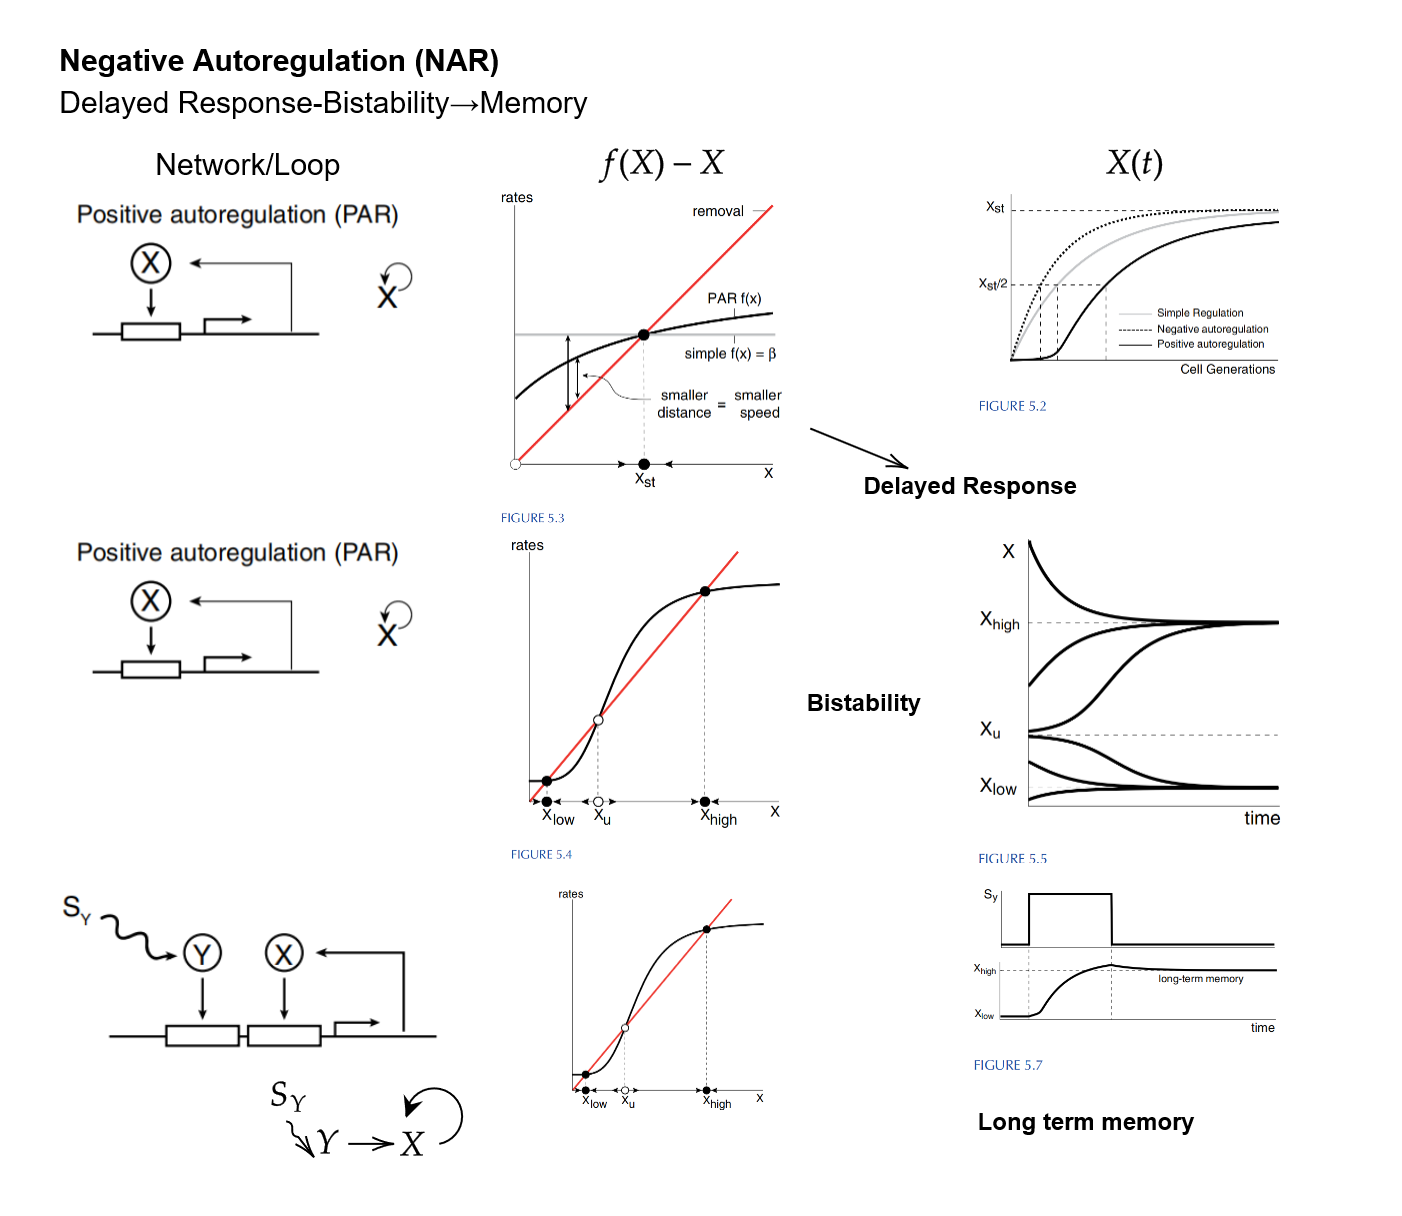
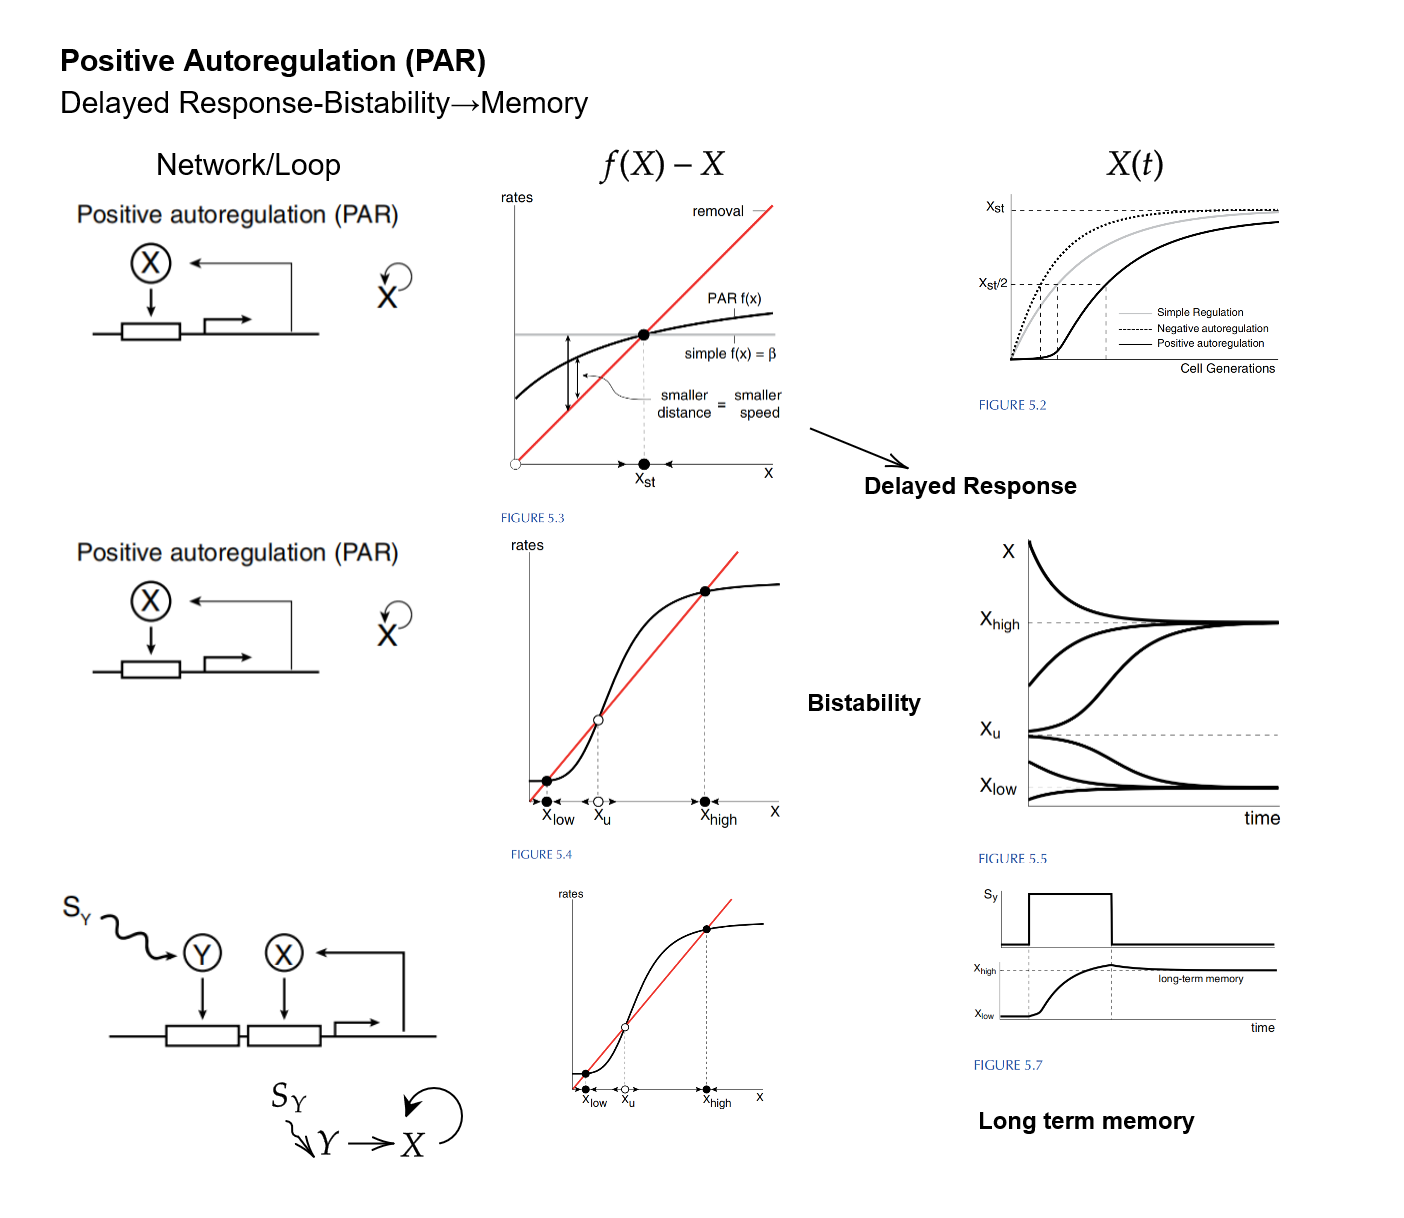
10pm update

diff --git a/734/g-course-memo/course/5/activity_name.html b/734/g-course-memo/course/5/activity_name.html
@@ -31,14 +31,12 @@
         <tbody>
             
             <tr>
-                <td>15</td>
-                <td>2024-10-22</td>
-                <td><a href="/734/g-course-memo/course/5/activity_id/6.html" target="_blank">Noteworthy Networks in DTN:<br>Negative Autoregulation<br>Two-Node Feedback Loops</a></td>              
+                <td>14</td>
+                <td>2024-10-17</td>
+                <td><a href="/734/g-course-memo/course/5/activity_id/17.html" target="_blank">Chpt.4 Topological Generalization of (Sensory etc.) Transcription Networks: <br>Single Input Module<br>Bifan and Diamond</a></td>              
                 <td>
                     
-                        <!-- <a href="None" target="_blank"> -->
-                            <a href="/734/g-course-memo/course/5/activity_id/6.html" target="_blank"><img src="/static/G-Course-Memo%20image/BME418/BME418_15_1.png" alt="None" class="academic-image"></a>
-                        <!-- </a> -->
+                        No image available
                     
                 </td>             
             </tr>
@@ -46,11 +44,24 @@
             <tr>
                 <td>16</td>
                 <td>2024-10-24</td>
-                <td><a href="/734/g-course-memo/course/5/activity_id/13.html" target="_blank">Noteworthy Networks in DTN:<br>Two-Node Feedback Loops and Deriving Networks<br>Other Networks<br>DTN project</a></td>              
+                <td><a href="/734/g-course-memo/course/5/activity_id/13.html" target="_blank">Chpt.5 Developemental Transcription Networks 2:<br>Two-Node Feedback Loops<br>Miscellaneous<br>DTN project</a></td>              
                 <td>
                     
                         <!-- <a href="None" target="_blank"> -->
                             <a href="/734/g-course-memo/course/5/activity_id/13.html" target="_blank"><img src="/static/G-Course-Memo%20image/BME418/BME418_16_1.png" alt="None" class="academic-image"></a>
+                        <!-- </a> -->
+                    
+                </td>             
+            </tr>
+            
+            <tr>
+                <td>15</td>
+                <td>2024-10-22</td>
+                <td><a href="/734/g-course-memo/course/5/activity_id/6.html" target="_blank">Chpt.5 Developmental Transcription Networks 1:<br>Positive Autoregulation<br>Two-Node Feedback Loops</a></td>              
+                <td>
+                    
+                        <!-- <a href="None" target="_blank"> -->
+                            <a href="/734/g-course-memo/course/5/activity_id/6.html" target="_blank"><img src="/static/G-Course-Memo%20image/BME418/BME418_15_1.png" alt="None" class="academic-image"></a>
                         <!-- </a> -->
                     
                 </td>             

diff --git a/734/g-course-memo/course/5/activity_id.html b/734/g-course-memo/course/5/activity_id.html
@@ -33,7 +33,7 @@
             <tr>
                 <td>15</td>
                 <td>2024-10-22</td>
-                <td><a href="/734/g-course-memo/course/5/activity_id/6.html" target="_blank">Noteworthy Networks in DTN:<br>Negative Autoregulation<br>Two-Node Feedback Loops</a></td>              
+                <td><a href="/734/g-course-memo/course/5/activity_id/6.html" target="_blank">Chpt.5 Developmental Transcription Networks 1:<br>Positive Autoregulation<br>Two-Node Feedback Loops</a></td>              
                 <td>
                     
                         <!-- <a href="None" target="_blank"> -->
@@ -46,12 +46,23 @@
             <tr>
                 <td>16</td>
                 <td>2024-10-24</td>
-                <td><a href="/734/g-course-memo/course/5/activity_id/13.html" target="_blank">Noteworthy Networks in DTN:<br>Two-Node Feedback Loops and Deriving Networks<br>Other Networks<br>DTN project</a></td>              
+                <td><a href="/734/g-course-memo/course/5/activity_id/13.html" target="_blank">Chpt.5 Developemental Transcription Networks 2:<br>Two-Node Feedback Loops<br>Miscellaneous<br>DTN project</a></td>              
                 <td>
                     
                         <!-- <a href="None" target="_blank"> -->
                             <a href="/734/g-course-memo/course/5/activity_id/13.html" target="_blank"><img src="/static/G-Course-Memo%20image/BME418/BME418_16_1.png" alt="None" class="academic-image"></a>
                         <!-- </a> -->
+                    
+                </td>             
+            </tr>
+            
+            <tr>
+                <td>14</td>
+                <td>2024-10-17</td>
+                <td><a href="/734/g-course-memo/course/5/activity_id/17.html" target="_blank">Chpt.4 Topological Generalization of (Sensory etc.) Transcription Networks: <br>Single Input Module<br>Bifan and Diamond</a></td>              
+                <td>
+                    
+                        No image available
                     
                 </td>             
             </tr>

diff --git a/734/g-course-memo/course/5/activity_date_desc.html b/734/g-course-memo/course/5/activity_date_desc.html
@@ -33,7 +33,7 @@
             <tr>
                 <td>16</td>
                 <td>2024-10-24</td>
-                <td><a href="/734/g-course-memo/course/5/activity_id/13.html" target="_blank">Noteworthy Networks in DTN:<br>Two-Node Feedback Loops and Deriving Networks<br>Other Networks<br>DTN project</a></td>              
+                <td><a href="/734/g-course-memo/course/5/activity_id/13.html" target="_blank">Chpt.5 Developemental Transcription Networks 2:<br>Two-Node Feedback Loops<br>Miscellaneous<br>DTN project</a></td>              
                 <td>
                     
                         <!-- <a href="None" target="_blank"> -->
@@ -46,12 +46,23 @@
             <tr>
                 <td>15</td>
                 <td>2024-10-22</td>
-                <td><a href="/734/g-course-memo/course/5/activity_id/6.html" target="_blank">Noteworthy Networks in DTN:<br>Negative Autoregulation<br>Two-Node Feedback Loops</a></td>              
+                <td><a href="/734/g-course-memo/course/5/activity_id/6.html" target="_blank">Chpt.5 Developmental Transcription Networks 1:<br>Positive Autoregulation<br>Two-Node Feedback Loops</a></td>              
                 <td>
                     
                         <!-- <a href="None" target="_blank"> -->
                             <a href="/734/g-course-memo/course/5/activity_id/6.html" target="_blank"><img src="/static/G-Course-Memo%20image/BME418/BME418_15_1.png" alt="None" class="academic-image"></a>
                         <!-- </a> -->
+                    
+                </td>             
+            </tr>
+            
+            <tr>
+                <td>14</td>
+                <td>2024-10-17</td>
+                <td><a href="/734/g-course-memo/course/5/activity_id/17.html" target="_blank">Chpt.4 Topological Generalization of (Sensory etc.) Transcription Networks: <br>Single Input Module<br>Bifan and Diamond</a></td>              
+                <td>
+                    
+                        No image available
                     
                 </td>             
             </tr>

diff --git a/734/g-course-memo/course/5/activity_date_asc.html b/734/g-course-memo/course/5/activity_date_asc.html
@@ -31,9 +31,20 @@
         <tbody>
             
             <tr>
+                <td>14</td>
+                <td>2024-10-17</td>
+                <td><a href="/734/g-course-memo/course/5/activity_id/17.html" target="_blank">Chpt.4 Topological Generalization of (Sensory etc.) Transcription Networks: <br>Single Input Module<br>Bifan and Diamond</a></td>              
+                <td>
+                    
+                        No image available
+                    
+                </td>             
+            </tr>
+            
+            <tr>
                 <td>15</td>
                 <td>2024-10-22</td>
-                <td><a href="/734/g-course-memo/course/5/activity_id/6.html" target="_blank">Noteworthy Networks in DTN:<br>Negative Autoregulation<br>Two-Node Feedback Loops</a></td>              
+                <td><a href="/734/g-course-memo/course/5/activity_id/6.html" target="_blank">Chpt.5 Developmental Transcription Networks 1:<br>Positive Autoregulation<br>Two-Node Feedback Loops</a></td>              
                 <td>
                     
                         <!-- <a href="None" target="_blank"> -->
@@ -46,7 +57,7 @@
             <tr>
                 <td>16</td>
                 <td>2024-10-24</td>
-                <td><a href="/734/g-course-memo/course/5/activity_id/13.html" target="_blank">Noteworthy Networks in DTN:<br>Two-Node Feedback Loops and Deriving Networks<br>Other Networks<br>DTN project</a></td>              
+                <td><a href="/734/g-course-memo/course/5/activity_id/13.html" target="_blank">Chpt.5 Developemental Transcription Networks 2:<br>Two-Node Feedback Loops<br>Miscellaneous<br>DTN project</a></td>              
                 <td>
                     
                         <!-- <a href="None" target="_blank"> -->

diff --git a/734/g-course-memo/course/5/activity_sequence.html b/734/g-course-memo/course/5/activity_sequence.html
@@ -31,9 +31,20 @@
         <tbody>
             
             <tr>
+                <td>14</td>
+                <td>2024-10-17</td>
+                <td><a href="/734/g-course-memo/course/5/activity_id/17.html" target="_blank">Chpt.4 Topological Generalization of (Sensory etc.) Transcription Networks: <br>Single Input Module<br>Bifan and Diamond</a></td>              
+                <td>
+                    
+                        No image available
+                    
+                </td>             
+            </tr>
+            
+            <tr>
                 <td>15</td>
                 <td>2024-10-22</td>
-                <td><a href="/734/g-course-memo/course/5/activity_id/6.html" target="_blank">Noteworthy Networks in DTN:<br>Negative Autoregulation<br>Two-Node Feedback Loops</a></td>              
+                <td><a href="/734/g-course-memo/course/5/activity_id/6.html" target="_blank">Chpt.5 Developmental Transcription Networks 1:<br>Positive Autoregulation<br>Two-Node Feedback Loops</a></td>              
                 <td>
                     
                         <!-- <a href="None" target="_blank"> -->
@@ -46,7 +57,7 @@
             <tr>
                 <td>16</td>
                 <td>2024-10-24</td>
-                <td><a href="/734/g-course-memo/course/5/activity_id/13.html" target="_blank">Noteworthy Networks in DTN:<br>Two-Node Feedback Loops and Deriving Networks<br>Other Networks<br>DTN project</a></td>              
+                <td><a href="/734/g-course-memo/course/5/activity_id/13.html" target="_blank">Chpt.5 Developemental Transcription Networks 2:<br>Two-Node Feedback Loops<br>Miscellaneous<br>DTN project</a></td>              
                 <td>
                     
                         <!-- <a href="None" target="_blank"> -->

diff --git a/734/g-course-memo/course/5/activity_id/17.html b/734/g-course-memo/course/5/activity_id/17.html
@@ -8,19 +8,18 @@
 </head>
 <body>
     <h1>G Course Memo: <span style="border-bottom: 1px dotted;" title="Quantitative Cell Biology">BME418</span></h1>
-    <h2>Chpt.5 Developemental Transcription Networks 2:
-Two-Node Feedback Loops
-Miscellaneous
-DTN project (#16)</h2>
+    <h2>Chpt.4 Topological Generalization of (Sensory etc.) Transcription Networks: 
+Single Input Module
+Bifan and Diamond (#14)</h2>
 
     <div class="container">
         <div class="text-column">
 <!--             <p>
-                <strong>activity_name:</strong> Chpt.5 Developemental Transcription Networks 2: Two-Node Feedback Loops Miscellaneous DTN project
+                <strong>activity_name:</strong> Chpt.4 Topological Generalization of (Sensory etc.) Transcription Networks: Single Input Module Bifan and Diamond
             </p> -->
             <!-- <p>Plot types:<br> </p> -->
 <!--          -->
-        <div class="activity-links" data-course-id="5" data-activity-id="13">
+        <div class="activity-links" data-course-id="5" data-activity-id="17">
         </div>
         
             <p>
@@ -31,14 +30,6 @@ DTN project (#16)</h2>
         </div>
         <div class="image-column">
             <ul>
-                
-                    <li>
-                        <a href="/734/g-course-memo/course/5/activity_sequence.html"><img src="/static/G-Course-Memo%20image/BME418/BME418_16_1.png" style="width: 400px; height: auto;"></a>
-                    </li>
-                
-                    <li>
-                        <a href="/734/g-course-memo/course/5/activity_sequence.html"><img src="/static/G-Course-Memo%20image/BME418/BME418_16_2.png" style="width: 400px; height: auto;"></a>
-                    </li>
                 
             </ul>
         </div>

diff --git a/734/g-course-memo/course/5/activity_id/6.html b/734/g-course-memo/course/5/activity_id/6.html
@@ -8,14 +8,14 @@
 </head>
 <body>
     <h1>G Course Memo: <span style="border-bottom: 1px dotted;" title="Quantitative Cell Biology">BME418</span></h1>
-    <h2>Noteworthy Networks in DTN:
-Negative Autoregulation
+    <h2>Chpt.5 Developmental Transcription Networks 1:
+Positive Autoregulation
 Two-Node Feedback Loops (#15)</h2>
 
     <div class="container">
         <div class="text-column">
 <!--             <p>
-                <strong>activity_name:</strong> Noteworthy Networks in DTN: Negative Autoregulation Two-Node Feedback Loops
+                <strong>activity_name:</strong> Chpt.5 Developmental Transcription Networks 1: Positive Autoregulation Two-Node Feedback Loops
             </p> -->
             <!-- <p>Plot types:<br> </p> -->
 <!--          -->
